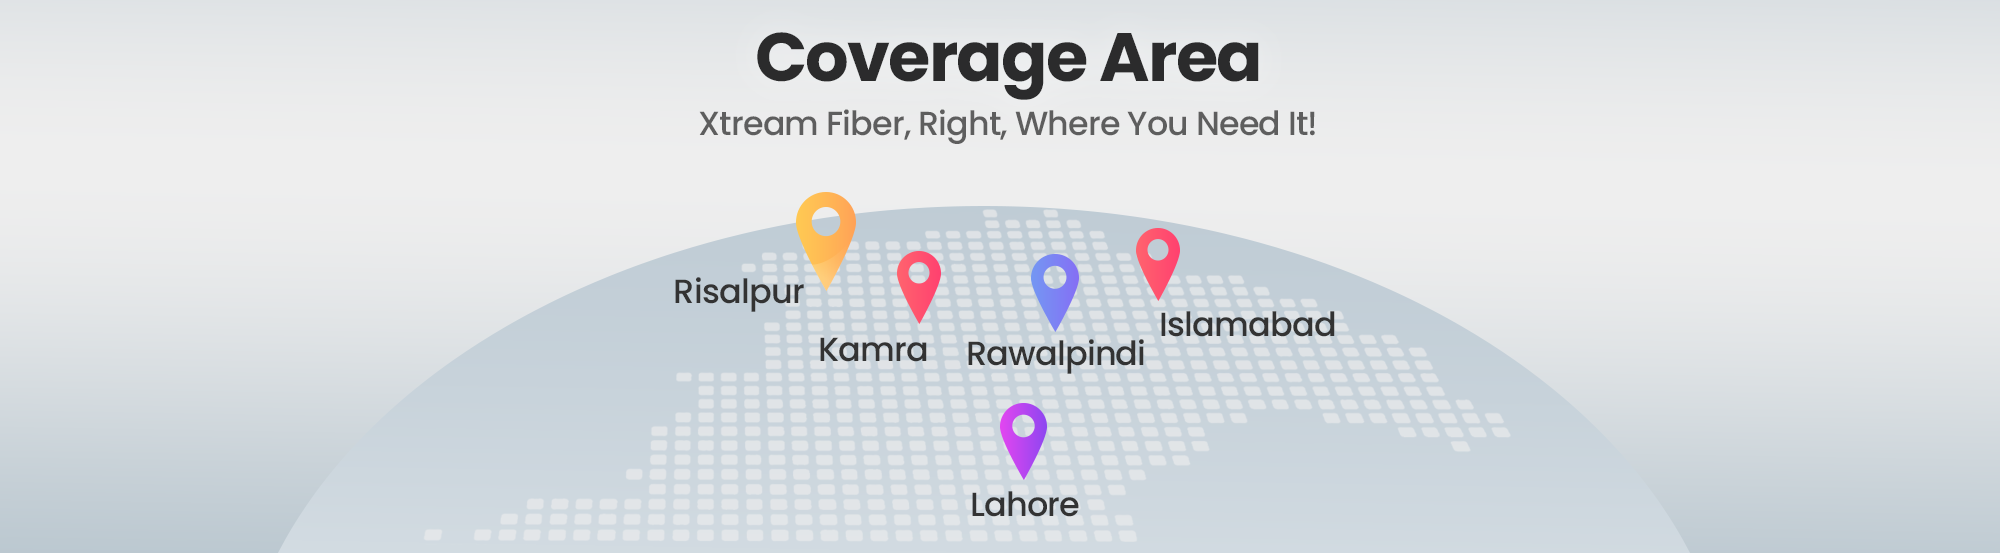
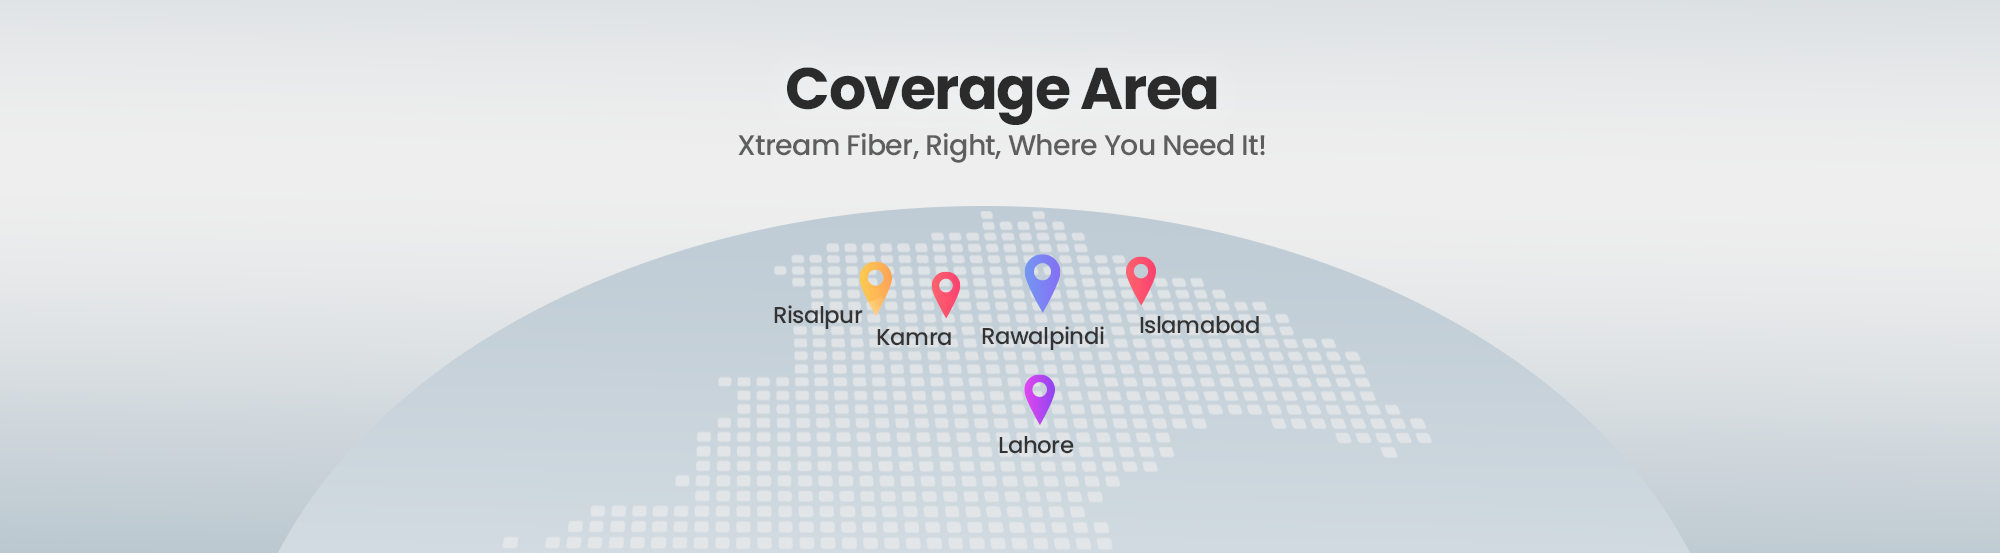
colors change

Changed region(s): [[0.341, 0.3382, 0.744, 0.8608], [0.341, 0.0615, 0.651, 0.3074], [0.465, 0.8915, 0.558, 0.953]]

diff --git a/public/assets/css/style.css b/public/assets/css/style.css
@@ -353,15 +353,6 @@ blockquote {
 	margin-right: 15px;
 }
 
-.single-header-info .content h3 {
-	font-size: 13px;
-	text-transform: uppercase;
-	color: #2B2B2B;
-	font-family: 'Lato', sans-serif;
-	font-weight: 800;
-	margin: 0;
-	margin-bottom: 5px;
-}
 .single-header-info .content p {
 	font-size: 13px;
 	margin: 0;
@@ -415,7 +406,7 @@ blockquote {
     font-size: 14px;
     font-weight: 600;
     text-transform: uppercase;
-    color: #da0000;
+    color: #000000;
     margin: 26px 22px;
     position: relative; /* Required for the ::after to work */
     transition: all 0.3s ease;

diff --git a/public/assets/css/orange.css b/public/assets/css/orange.css
@@ -5,7 +5,7 @@
 .parallax-banner {
 	background: url(../images/webImg/coverage1.png);
     background-size: cover;
-    height: 385px;
+    height: 350px;
 	margin-top: 39px;
 }
 

diff --git a/resources/views/layout/header.blade.php b/resources/views/layout/header.blade.php
@@ -200,7 +200,7 @@
 <style>
 .mainmenu-area {
     background: #ffffff;
-    border-bottom: 4px solid #da0000;
+    border-bottom: 4px solid #000000;
     height: 95px;
     padding: 10px 0px;
 }
@@ -213,7 +213,7 @@
 .single-header-info .content h3 {
     font-size: 14px;
     text-transform: uppercase;
-    color: #da0000;
+    color: #000000;
     font-family: 'Lato', sans-serif;
     font-weight: 700;
     margin: 0;
@@ -235,7 +235,7 @@
 }
 .single-header-info .icon-box .inner-box i:before {
     font-size: 26px;
-    color: #da0000;
+    color: #000000;
 }
 .navigation .nav-header > ul > li > a{
     margin: 26px 16px;

diff --git a/resources/views/components/packages.blade.php b/resources/views/components/packages.blade.php
@@ -14,7 +14,7 @@
                 <button class="nav-links active tabs-outer" id="internet_offer_tab">Internet Offers</button>
             </li>
             <li class="nav-item">
-                <button class="nav-links tabs-outer" id="internet_trutv_tab">My TruTV App</button>
+                <button class="nav-links tabs-outer" id="internet_trutv_tab">ITV Application</button>
             </li>
         </ul>
         <div class="slider-wrapper">
